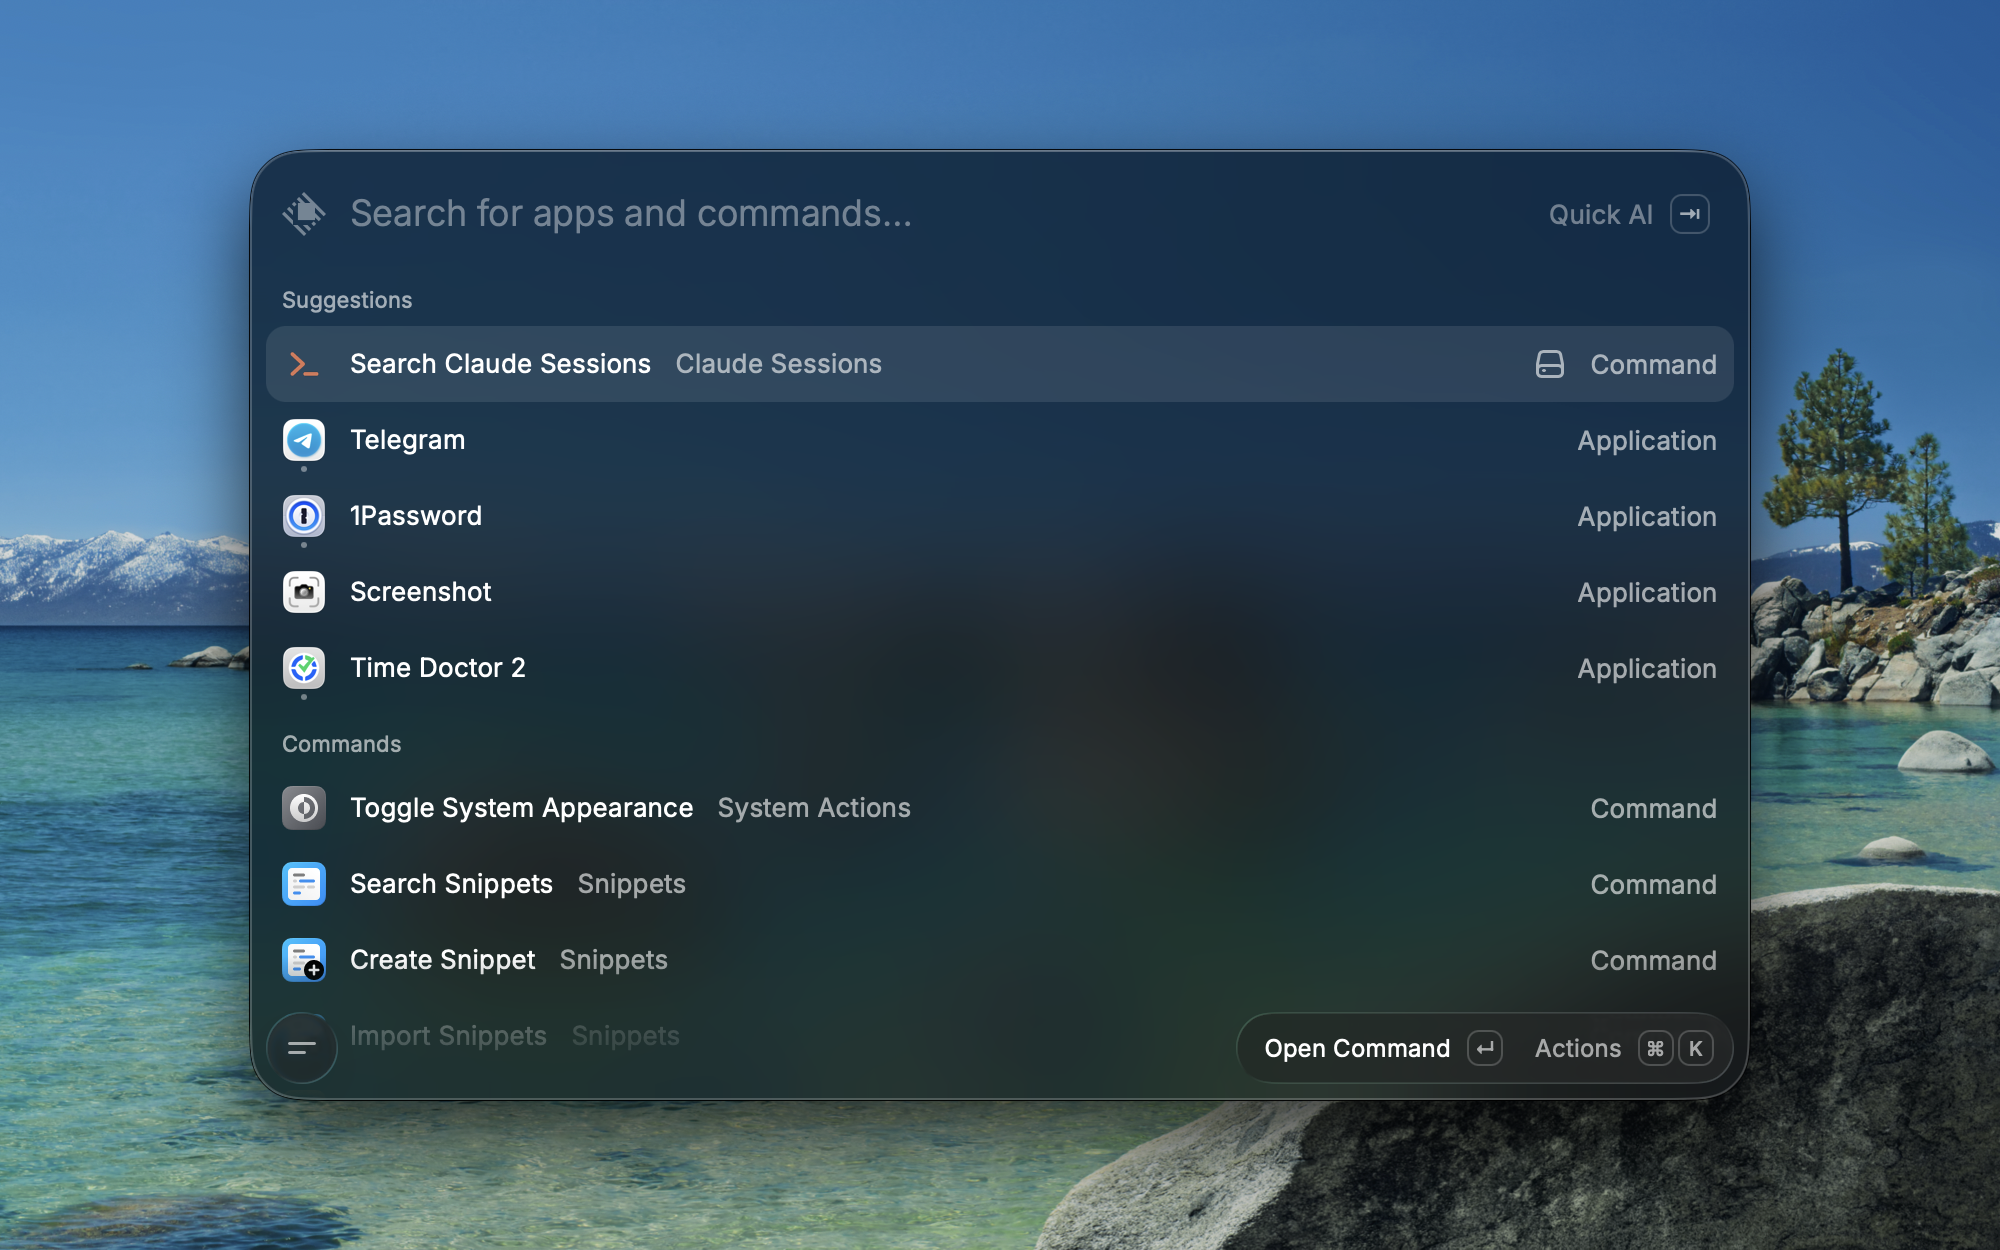
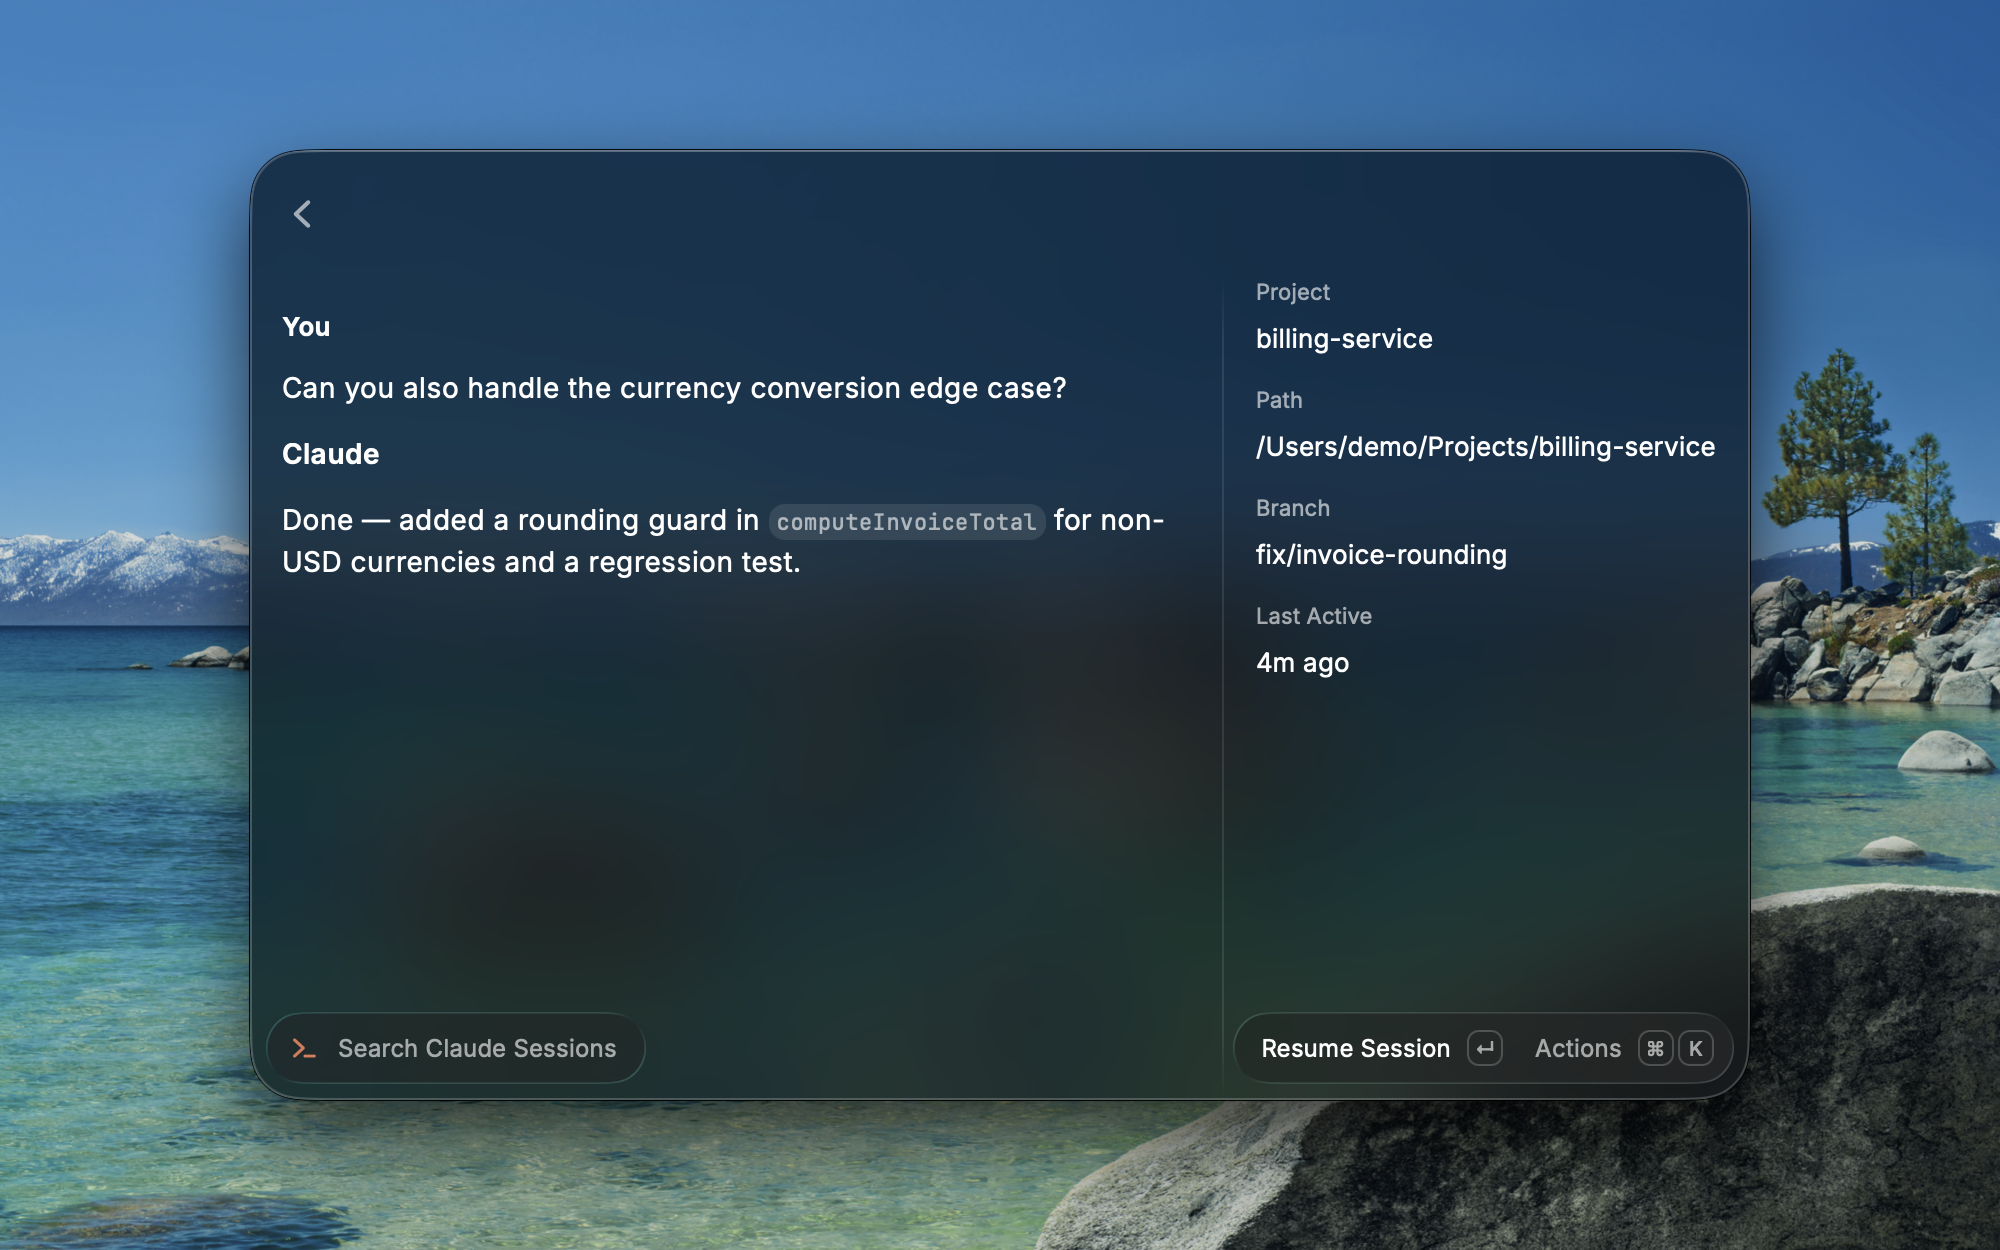
docs: update screenshots and trim README gallery to two images

diff --git a/README.md b/README.md
@@ -4,9 +4,9 @@ Search, pin, and resume your [Claude Code](https://claude.com/claude-code) sessi
 
 ## Screenshots
 
-| Search | Discover | Resume |
-| --- | --- | --- |
-| ![Search Claude Sessions list](metadata/claude-session-manager-1.png) | ![Search Claude Sessions in Raycast root search](metadata/claude-session-manager-2.png) | ![Session detail with resume action](metadata/claude-session-manager-3.png) |
+| Search | Resume |
+| --- | --- |
+| ![Search Claude Sessions list](metadata/claude-session-manager-1.png) | ![Session detail with resume action](metadata/claude-session-manager-2.png) |
 
 ## Requirements
 
